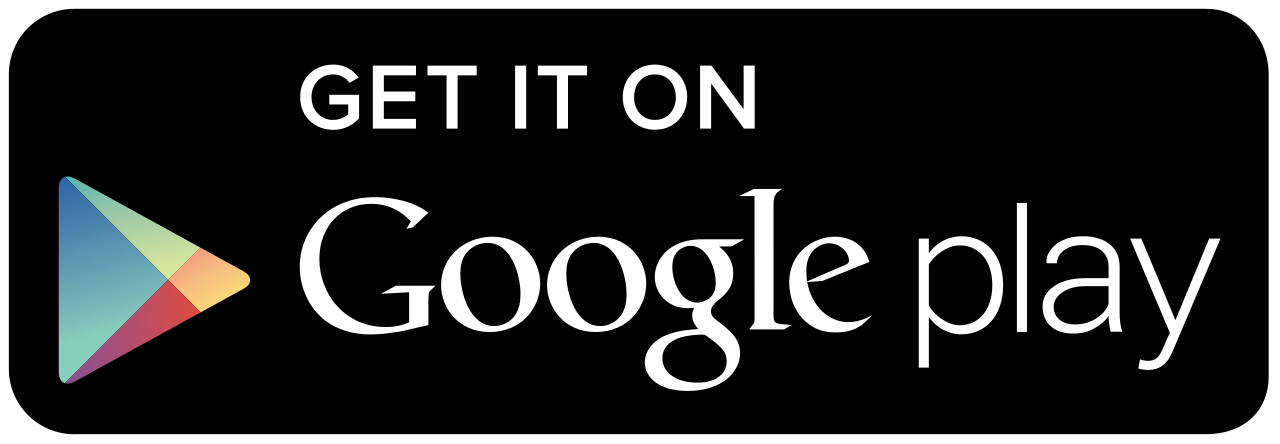
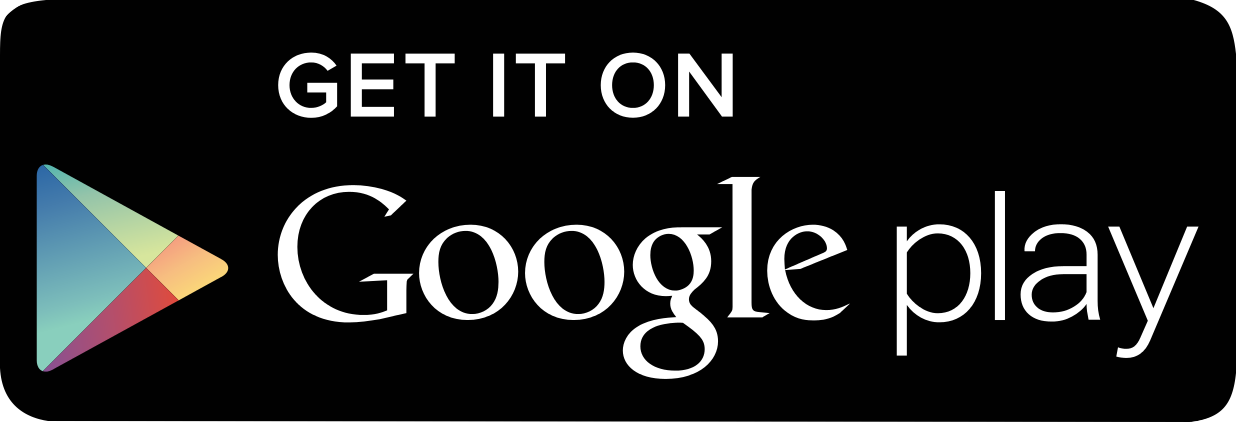
modified feel

diff --git a/homepage.html b/homepage.html
@@ -23,8 +23,9 @@
     <link rel="stylesheet" href="assets/css/bootstrap.min.css" type="text/css">
 
     <!-- Custom Fonts -->
-    <link href='https://fonts.googleapis.com/css?family=Nunito:400,700,300' rel='stylesheet' type='text/css'>
-    <link href='https://fonts.googleapis.com/css?family=Open+Sans:300italic,400italic,600italic,700italic,800italic,400,300,600,700,800' rel='stylesheet' type='text/css'>
+    <!-- <link href='https://fonts.googleapis.com/css?family=Nunito:400,700,300' rel='stylesheet' type='text/css'> -->
+    <link href='https://fonts.googleapis.com/css?family=Lato:400,700' rel='stylesheet' type='text/css'>
+    <link href='https://fonts.googleapis.com/css?family=Quicksand:400,700' rel='stylesheet' type='text/css'>
     <!-- <link href='http://fonts.googleapis.com/css?family=Merriweather:400,300,300italic,400italic,700,700italic,900,900italic' rel='stylesheet' type='text/css'> -->
     <link rel="stylesheet" href="assets/font-awesome/css/font-awesome.min.css" type="text/css">
 
@@ -106,10 +107,10 @@
 
     <section class="bg-primary" id="about">
         <div class="container">
-            <div class="row">
-                <div class="text-center">
+            <div class="text-center">
+                <div class="row">
                     <h2 class="section-heading">We've got what you need!</h2>
-                    <p class="text-center">EssentialApp is an sms based lifestyle application that is routed to premium SMS short codes. The application also contains modules that are absolutely free for the subscriber.</p>
+                    <p class="about text-center">EssentialApp is an sms based lifestyle application that is routed to premium SMS short codes. The application also contains modules that are absolutely free for the subscriber.</p>
                     <hr class="light">
                     <!-- <div class="row"> -->
                     <!-- <div id="slide">
@@ -119,21 +120,33 @@
                             <li class="bjqs-slide"><img class="app-img" src="assets/images/essentialapp slider3.png"></li>
                         </ul>
                     </div> -->
-                    <div class="col-lg-4 col-md-4">
-                        <img class="app-img" src="assets/images/essentialapp-Directory.jpg">
-                        <h3 class="section-heading">Directory Search</h3>
+                    <div class="col-sm-4">
+                        <!-- <img class="app-img" src="assets/images/essentialapp-Directory.jpg"> -->
+                        <i class="fa fa-book fa-5x wow fadeIn" data-wow-delay=".4s"></i>
+                        <h3 class="section-heading">Business Directory</h3>
+                        <p>
+                            An SMS based directory service application providing access to approximately 100,000 companies across Nigeria. 
+                        </p>
                     </div>
-                    <div class="col-lg-4 col-md-4">
-                        <img class="app-img" src="assets/images/essentialapp-cinema.jpg">
+                    <div class="col-sm-4">
+                        <!-- <img class="app-img" src="assets/images/essentialapp-cinema.jpg"> -->
+                        <i class="fa fa-film fa-5x wow fadeIn" data-wow-delay=".4s"></i>
                         <h3 class="section-heading">Cinema Schedules</h3>
+                        <p>
+                            Provides films and show times in Nigeria's leading cinemas. The user requests the city/cinema combination of choice and receives the entire schedule for the week.
+                        </p>
                     </div>
-                    <div class="col-lg-4 col-md-4">
-                        <img class="app-img" src="assets/images/essentialapp-flight.JPG">
+                    <div class="col-sm-4">
+                        <!-- <img class="app-img" src="assets/images/essentialapp-flight.JPG"> -->
+                        <i class="fa fa-plane fa-5x wow fadeIn" data-wow-delay=".4s"></i>
                         <h3 class="section-heading">Flight Schedules</h3>
+                        <p>
+                            Provides flight times between cities in Nigeria and also for international flights originating or terminating in a Nigerian city.
+                        </p>
                     </div>
                     <!-- </div> -->
-                    <a href="#download" class="btn btn-default btn-xl page-scroll">Download</a>
                 </div>
+                <a href="#download" class="btn btn-default btn-xl page-scroll">Download NOW!</a>
             </div>
         </div>
     </section>
@@ -174,7 +187,7 @@
                 </div>
                <!--  <div class="col-lg-3 col-md-6 text-center">
                     <div class="service-box">
-                        <i class="fa fa-4x fa-heart wow bounceIn text-primary" data-wow-delay=".3s"></i>
+                        <i class="fa fa-4x fa-heart wow fadeIn text-primary" data-wow-delay=".3s"></i>
                         <h3>Made with Love</h3>
                         <p class="text-muted">You have to make your websites with love these days!</p>
                     </div>
@@ -191,22 +204,22 @@
                     <hr class="primary">
                     <p>
                         <!-- <a href="">
-                            <i class="fa fa-facebook-official fa-3x wow bounceIn" aria-hidden="true"></i>
+                            <i class="fa fa-facebook-official fa-3x wow fadeIn" aria-hidden="true"></i>
                         </a> -->
                         <a href="https://twitter.com/EssentialAppNG">
-                            <i class="fa fa-twitter fa-3x wow bounceIn" aria-hidden="true"></i>
+                            <i class="fa fa-twitter fa-3x wow bounceIn" aria-hidden="true" data-wow-delay=".2s"></i>
                         </a>                        
                         <a href="skype:dals.njidda?userinfo">
-                            <i class="fa fa-skype fa-3x wow bounceIn" aria-hidden="true"></i>
+                            <i class="fa fa-skype fa-3x wow bounceIn" aria-hidden="true" data-wow-delay=".2s"></i>
                         </a>
                     </p>
                 </div>
                 <div class="col-lg-4 col-lg-offset-2 text-center">
-                    <i class="fa fa-phone fa-3x wow bounceIn"></i>
+                    <i class="fa fa-phone fa-3x wow bounceIn" data-wow-delay=".2s"></i>
                     <p>081 3284 2499</p>
                 </div>
                 <div class="col-lg-4 text-center">
-                    <i class="fa fa-envelope-o fa-3x wow bounceIn" data-wow-delay=".1s"></i>
+                    <i class="fa fa-envelope-o fa-3x wow bounceIn" data-wow-delay=".2s"></i>
                     <p><a href="mailto:info@onenumber.com.ng">info@onenumber.com.ng</a></p>
                 </div>
             </div>

diff --git a/assets/css/creative.css b/assets/css/creative.css
@@ -11,7 +11,7 @@ body {
 }
 
 body {
-    font-family: 'Nunito','Helvetica Neue',Arial,sans-serif;
+    font-family: 'Lato','Helvetica Neue',Arial,sans-serif;
 }
 
 hr {
@@ -42,7 +42,15 @@ h3,
 h4,
 h5,
 h6 {
-    font-family: 'Nunito','Helvetica Neue',Arial,sans-serif;
+    font-family: 'Quicksand','Helvetica Neue',Arial,sans-serif;
+}
+
+h1, h2 {
+    font-weight: 600;
+}
+
+h3, h4, h5, h6 {
+    font-weight: 500;
 }
 
 p {
@@ -78,7 +86,7 @@ aside {
 
 .navbar-default {
     border-color: rgba(34,34,34,.05);
-    font-family: 'Nunito','Helvetica Neue',Arial,sans-serif;
+    font-family: 'Quicksand','Helvetica Neue',Arial,sans-serif;
     background-color: #fff;
     -webkit-transition: all .35s;
     -moz-transition: all .35s;
@@ -87,7 +95,7 @@ aside {
 
 .navbar-default .navbar-header .navbar-brand {
     /*text-transform: uppercase;*/
-    font-family: 'Nunito','Helvetica Neue',Arial,sans-serif;
+    font-family: 'Quicksand','Helvetica Neue',Arial,sans-serif;
     font-weight: 700;
     color: #60c0f0;
     margin-left: -10px;
@@ -319,7 +327,7 @@ header .header-content .header-content-inner p {
 .portfolio-box .portfolio-box-caption .portfolio-box-caption-content .project-category,
 .portfolio-box .portfolio-box-caption .portfolio-box-caption-content .project-name {
     padding: 0 15px;
-    font-family: 'Nunito','Helvetica Neue',Arial,sans-serif;
+    font-family: 'Quicksand','Helvetica Neue',Arial,sans-serif;
 }
 
 .portfolio-box .portfolio-box-caption .portfolio-box-caption-content .project-category {
@@ -343,6 +351,12 @@ header .header-content .header-content-inner p {
 
     .portfolio-box .portfolio-box-caption .portfolio-box-caption-content .project-name {
         font-size: 22px;
+    }
+
+    .about {
+        margin: 0 auto;
+        width: 60%;
+        font-size: 1.2em;
     }
 }
 
@@ -469,13 +483,13 @@ fieldset[disabled] .btn-primary.active {
     border: 0;
     border-radius: 300px;
     text-transform: uppercase;
-    font-family: 'Nunito','Helvetica Neue',Arial,sans-serif;
+    font-family: 'Quicksand','Helvetica Neue',Arial,sans-serif;
     font-weight: 700;
 }
 
 .btn-xl {
     padding: 15px 30px;
-    margin-top: 20px;
+    margin-top: 30px;
 }
 
 ::-moz-selection {
@@ -536,6 +550,8 @@ body {
 .dwnld-badge {
     height: 100px;
     width: 290px;
+    box-shadow: 5px 5px 5px #888888;
+    border-radius: 20px;
 }
 
 .app-img {
@@ -566,8 +582,14 @@ section#about {
 
 #about p {
     padding: 10px;
+    font-size: 1.2em;
 }
 
 #contact p i {
     margin: 5px 20px;
+}
+
+.col-sm-4 .fa {
+    margin: 30px;
+    font-size: 8em;
 }
